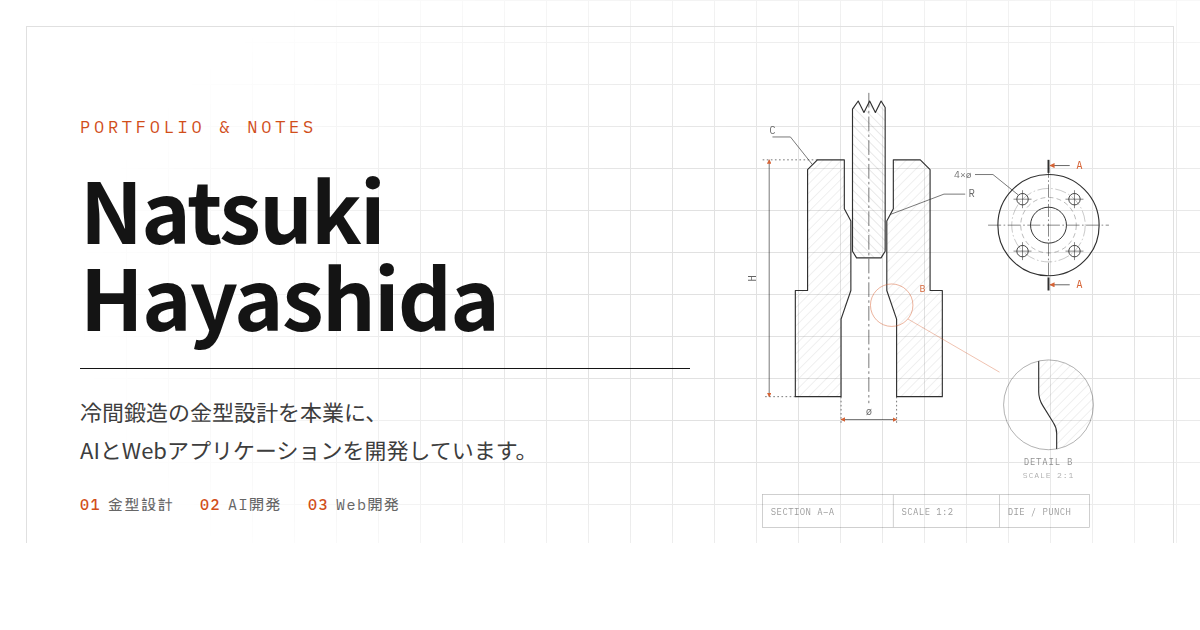
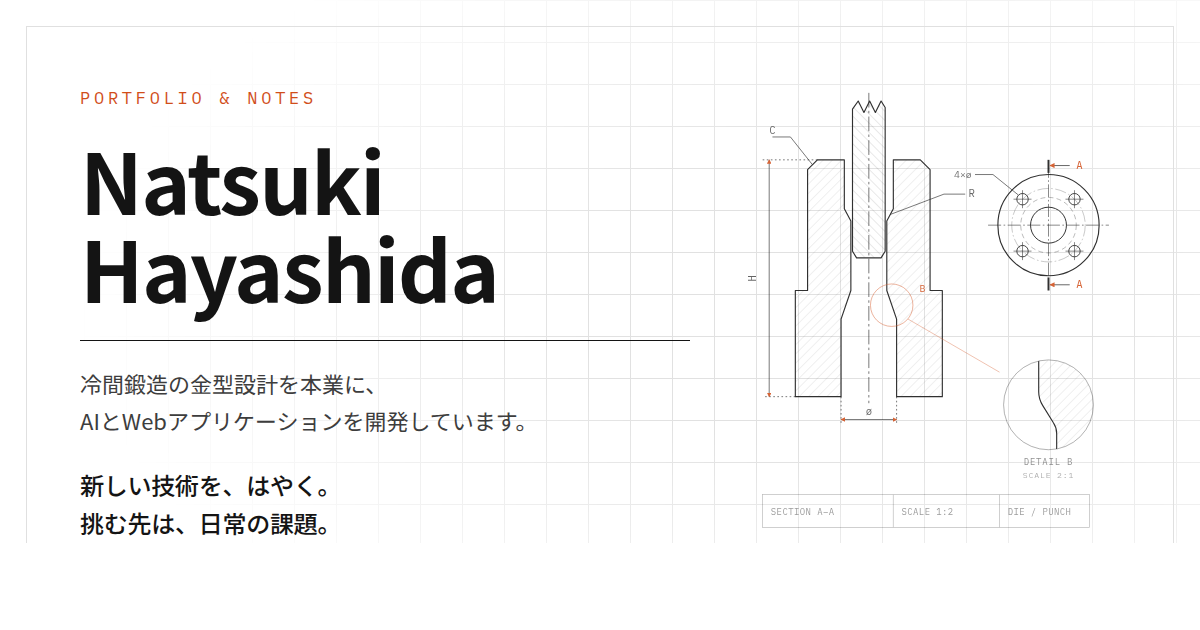
design: Approach を Apple 式の二文に置き換え、OGPの3本柱表記をやめる
本人が Apple の製品ページの構成を「昔から好み」と指定。実際のページを読んで型を
確認した（見出しは4〜13文字の体言止め、短い文を二文並べる、補足文を置かない
セクションが多い、1セクション1テーマ）。

トップの Approach を「新しい技術を、はやく。／挑む先は、日常の課題。」の二文だけにした。
112文字のリード文と、中心概念「現場で見つけて、技術で形にして、現場で確かめる」の一行は
トップからは外した。説明が多いと方針の宣言に見える、という本人の判断。

OGPの「01 金型設計 / 02 AI開発 / 03 Web開発」を同じ二文に差し替えた。
この3本柱表記は「3つの技術を持っているという見せ方は禁止」（本人決定・2026-08-11）と
矛盾したまま残っていたもの。文言を変えるときは page.tsx と build-ogp.py の両方を直す。

文字サイズは据え置き（24px）。Apple 式は大きさで効かせる型だが、CLAUDE.md の
「セクションH2は20〜24px」に収めてある。上げるなら規約に例外を書く必要がある。

未了: About の Approach は古い文言のまま。トップと食い違っている。

Claude-Session: https://claude.ai/code/session_01XgvrtJBQ4Mp5vJ4gvWrPsa

Changed region(s): [[0.0617, 0.2413, 0.4317, 0.754], [0.0617, 0.754, 0.3392, 0.8746], [0.0617, 0.1508, 0.2775, 0.2111]]

diff --git a/app/page.tsx b/app/page.tsx
@@ -54,15 +54,17 @@ export default function Home() {
       <section className="border-t">
         <div className="container max-w-5xl py-10 md:py-14">
           <p className="font-mono text-xs tracking-[0.2em] uppercase text-primary mb-4">Approach</p>
+          {/*
+            Apple の製品ページの型に合わせた（本人が「昔から好み」と指定・2026-08-12）。
+            実測した型は「4〜13文字の体言止めを二文並べる」「補足文を置かないセクションが多い」。
+            以前ここにあった112文字のリード文と、中心概念「現場で見つけて、技術で形にして、
+            現場で確かめる」の一行は**トップからは外した**。説明が多いと方針の宣言に見える、
+            という本人の判断による。About 側の Approach は未着手なので、いま食い違っている。
+          */}
           <h2 className="text-2xl md:text-2xl font-bold tracking-tight leading-snug max-w-2xl">
-            <span className="inline-block">現場で見つけて、</span>
-            <span className="inline-block">技術で形にして、</span>
-            <span className="inline-block">現場で確かめる</span>
+            <span className="block">新しい技術を、はやく。</span>
+            <span className="block">挑む先は、日常の課題。</span>
           </h2>
-          <p className="mt-4 text-sm md:text-[15px] text-muted-foreground leading-relaxed max-w-2xl">
-            持っている技術の一覧ではなく、回し方の話です。課題は現場で見つかり、打ち手はAIを軸に
-            現場の外の最新まで取りに行き、確かめる場所もまた現場になります。
-          </p>
         </div>
       </section>
 

diff --git a/scripts/build-ogp.py b/scripts/build-ogp.py
@@ -83,12 +83,14 @@ page = """<meta charset="utf-8">
   }
   .rule { margin: 30px 0 24px; border-top: 1px solid #141414; width: 100%; }
   .lead { font-size: 22px; line-height: 1.7; color: #3d3d3d; }
-  .pillars {
-    margin-top: 26px; display: flex; gap: 26px;
-    font-family: 'IBM Plex Mono', monospace;
-    font-size: 15px; letter-spacing: 0.1em; color: #666;
+  /* かつては 01 金型設計 / 02 AI開発 / 03 Web開発 を並べていたが、
+     「3つの技術を持っているという見せ方は禁止」（本人決定・2026-08-11）と矛盾するため
+     トップの Approach と同じ二文に差し替えた（2026-08-12）。文言を変えるときは両方直す。 */
+  .stance {
+    margin-top: 26px; font-size: 24px; font-weight: 500;
+    line-height: 1.6; letter-spacing: -0.01em; color: #141414;
   }
-  .pillars b { color: #d14e1a; font-weight: 500; margin-right: 7px; }
+  .stance em { font-style: normal; color: #d14e1a; }
   .right { flex: 1; display: flex; justify-content: flex-end; color: #141414; opacity: 0.88; }
   .ds-draw, .ds-fade { animation: none !important; stroke-dashoffset: 0 !important; opacity: 1 !important; }
   .font-mono { font-family: 'IBM Plex Mono', monospace; }
@@ -101,11 +103,7 @@ page = """<meta charset="utf-8">
     <h1>Natsuki<br>Hayashida</h1>
     <div class="rule"></div>
     <div class="lead">冷間鍛造の金型設計を本業に、<br>AIとWebアプリケーションを開発しています。</div>
-    <div class="pillars">
-      <span><b>01</b>金型設計</span>
-      <span><b>02</b>AI開発</span>
-      <span><b>03</b>Web開発</span>
-    </div>
+    <div class="stance">新しい技術を、はやく。<br>挑む先は、日常の課題。</div>
   </div>
   <div class="right">__SVG__</div>
 </div>
